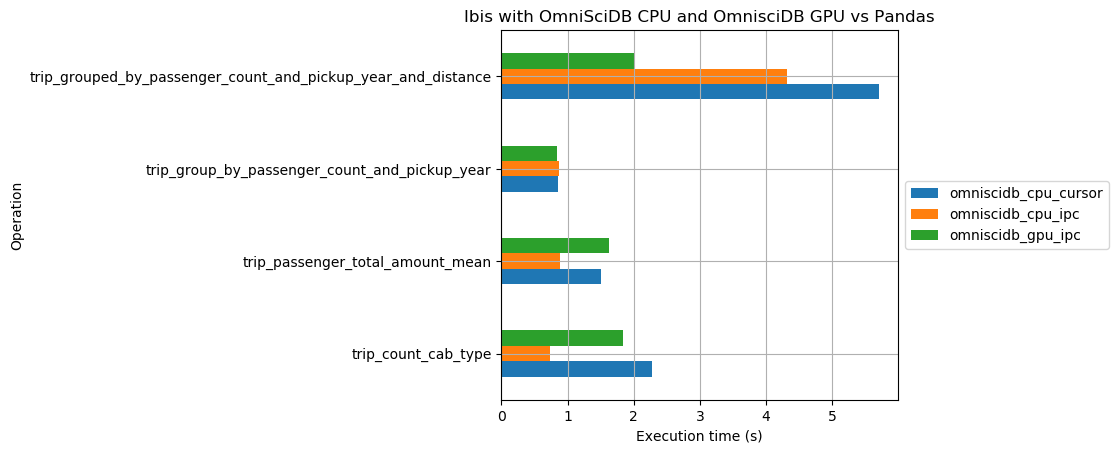
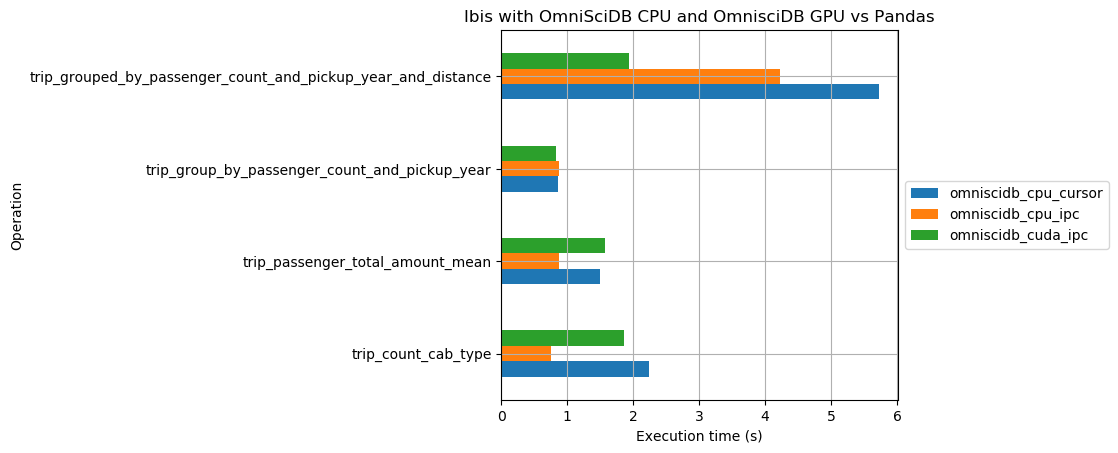
Fix small issues and update results.

diff --git a/ibis_benchmark/nyc_taxi/main.py b/ibis_benchmark/nyc_taxi/main.py
@@ -40,18 +40,21 @@ def main():
     )
 
     ns = parser.parse_args()
+    runpy_file = os.path.join(
+        os.path.dirname(os.path.abspath(__file__)), 'run.py'
+    )
 
     if ns.reset_results:
         # start a new benchmark log
         register_log(config.log_path, new_log=True)
         return
     elif ns.is_omniscidb_cpu:
-        os.system('python run.py --omniscidb --cpu --cursor')
-        os.system('python run.py --omniscidb --cpu --ipc')
+        os.system('python {} --omniscidb --cpu --cursor'.format(runpy_file))
+        os.system('python {} --omniscidb --cpu --ipc'.format(runpy_file))
     elif ns.is_omniscidb_cuda:
-        os.system('python run.py --omniscidb --gpu --ipc')
+        os.system('python {} --omniscidb --cuda --ipc'.format(runpy_file))
     elif ns.is_pandas:
-        os.system('python run.py --pandas')
+        os.system('python {} --pandas'.format(runpy_file))
 
     # generate a comparison chart
     gen_chart('nyc-taxi')

diff --git a/ibis_benchmark/chart.py b/ibis_benchmark/chart.py
@@ -22,12 +22,16 @@ def gen_chart(table_name):
     ax.set_xlabel("Execution time (s)")
     ax.set_ylabel("Operation")
 
-    df.T.plot(
-        kind='barh',
-        ax=ax,
-        title='Ibis with OmniSciDB CPU and OmnisciDB GPU vs Pandas',
-        grid=True,
-    )
+    try:
+        df.T.plot(
+            kind='barh',
+            ax=ax,
+            title='Ibis with OmniSciDB CPU and OmnisciDB GPU vs Pandas',
+            grid=True,
+        )
+    except TypeError as e:
+        print(e)
+        return
 
     box = ax.get_position()
     ax.set_position([box.x0, box.y0, box.width * 0.8, box.height])

diff --git a/ibis_benchmark/nyc_taxi/run.py b/ibis_benchmark/nyc_taxi/run.py
@@ -55,8 +55,8 @@ def main():
     )
 
     proc_target.add_argument(
-        '--gpu',
-        dest='is_gpu',
+        '--cuda',
+        dest='is_cuda',
         action='store_true',
         help='Set OmniSciDB GPU as default for the connection.',
     )
@@ -74,7 +74,7 @@ def main():
         if args.is_cpu:
             conn_name = 'cpu'
         else:
-            conn_name = 'gpu'
+            conn_name = 'cuda'
 
         if args.is_cursor:
             conn_name += '_cursor'

diff --git a/ibis_benchmark/nyc_taxi/config.py b/ibis_benchmark/nyc_taxi/config.py
@@ -15,8 +15,8 @@ conn_info = {
 conn_info['cpu_ipc'] = dict(conn_info['cpu_cursor'])
 conn_info['cpu_ipc'].update({'ipc': True})
 
-conn_info['gpu_ipc'] = dict(conn_info['cpu_cursor'])
-conn_info['gpu_ipc'].update({'port': 26274, 'ipc': True, 'gpu_device': 1})
+conn_info['cuda_ipc'] = dict(conn_info['cpu_cursor'])
+conn_info['cuda_ipc'].update({'port': 26274, 'ipc': True, 'gpu_device': 1})
 
 
 # start a new benchmark log

diff --git a/ibis_benchmark/nyc_taxi/README.md b/ibis_benchmark/nyc_taxi/README.md
@@ -136,49 +136,89 @@ export IBIS_BENCHMARK_DATA_CLEANED=/work/$(whoami)/ibis-benchmark-data-cleaned
 ./export_from_postgresql_to_csv.sh
 ```
 
-### 5. Load data into OmniSciDB CPU and GPU
+### 5. Load data into OmniSciDB database
 
-CPU
+Now, the data is ready to be loaded into OmniSciDB database.
+
+To save space in disk, we can reuse the same data directory for both OmniSciDB
+CPU and CUDA. So, to load the data into OmniSciDB data directory we can use
+just OmniSciDB CPU.
+
+So first, start the OmniSciDB CPU database:
+
+```sh
+# export env variables
+export OMNISCIDB_DATA_DIR=/work/$(whoami)/omniscidb-data
+# start omniscidb-cpu
+./scripts/start_omniscidb_cpu.sh
+```
+
+Run the `create_table.sh` file to create the initial table and `load_._data.sh`
+to load the data from the CSVs files to OmniSciDB database.
+
 ```sh
 # create table schema
-OMNISCI_PORT=6274 ./create_table.sh
+OMNISCI_PORT=6274 ./ibis_benchmark/nyc_taxi/data/omniscidb/create_table.sh
 # export ibis benchmark data cleaned
 export IBIS_BENCHMARK_DATA_CLEANED=/work/$(whoami)/ibis-benchmark-data-cleaned
 # load data
-OMNISCI_PORT=6274 ./load_data.sh
+OMNISCI_PORT=6274 ./ibis_benchmark/nyc_taxi/data/omniscidb/load_data.sh
 ```
 
-### 6. Analysis
+### 6. Run the benchmark
 
-```
-nyc-taxi-data=# SELECT relname table_name,
-nyc-taxi-data-#        lpad(to_char(reltuples, 'FM9,999,999,999'), 13) row_count
-nyc-taxi-data-# FROM pg_class
-nyc-taxi-data-# LEFT JOIN pg_namespace
-nyc-taxi-data-#     ON (pg_namespace.oid = pg_class.relnamespace)
-nyc-taxi-data-# WHERE nspname NOT IN ('pg_catalog', 'information_schema')
-nyc-taxi-data-# AND relkind = 'r'
-nyc-taxi-data-# ORDER BY reltuples DESC;
-            table_name             |   row_count   
------------------------------------+---------------
- trips                             | 1,648,177,408
- fhv_trips                         |   791,372,544
- spatial_ref_sys                   |         8,500
- central_park_weather_observations |         3,833
- nyct2010                          |         2,168
- nyct2010_taxi_zones_mapping       |         2,167
- fhv_bases                         |         1,097
- taxi_zones                        |           263
- hvfhs_licenses                    |             0
- yellow_tripdata_staging           |             0
- uber_trips_2014                   |             0
- fhv_trips_staging                 |             0
- green_tripdata_staging            |             0
- cab_types                         |             0
-(14 rows)
+First, prepare the conda environment needed by the benchmark:
+
+```sh
+# create a conda environment needed by benchmark
+conda env create -n ibis-benchmark --file ./environment.yml
+# activate the ibis-benchmark conda environment
+conda activate ibis-benchmark
+# install ibis-benchmark
+make develop
 ```
 
-The expressions used by this benchmark are listed into expr_list at `exprs.py`.
+Start a new benchmark:
+
+```sh
+# reset previous results
+python ibis_benchmark/main.py --reset-result 
+```
+
+In a new terminal, start OmniSciDB CPU:
+
+```sh
+# export env variables
+export OMNISCIDB_DATA_DIR=/work/$(whoami)/omniscidb-data
+# start omniscidb-cpu
+./scripts/start_omniscidb_cpu.sh
+```
+
+On `ibis-benchmark` conda environment, run the benchmark for OmniSciDB CPU:
+
+```sh
+python ibis_benchmark/nyc_taxi/main.py --omniscidb-cpu
+```
+
+Now, the first results are ready on `./docs/static/benchmark-nyc-txi.json`.
+
+The next step is run the benchmark for OmniSciDB CUDA. First, ensure that
+the OmniSciDB CPU is not running. So, in a new terminal, start OmniSciDB CUDA:
+
+```sh
+# export env variables
+export OMNISCIDB_DATA_DIR=/work/$(whoami)/omniscidb-data
+# start omniscidb-cpu
+./scripts/start_omniscidb_cuda.sh
+```
+
+On `ibis-benchmark` conda environment, run the benchmark for OmniSciDB CUDA:
+
+```sh
+python ibis_benchmark/nyc_taxi/main.py --omniscidb-cuda
+```
+
+All expressions used by this benchmark are listed into expr_list at `exprs.py`.
 
 ## Schema
 

diff --git a/README.md b/README.md
@@ -26,26 +26,26 @@ cp $CONDA_PREFIX/bin/omnisci_initdb initdb
 # deactivate the environment
 source deactivate
 # export env variables
-export OMNISCIDB_CPU_DATA_DIR=/work/$(whoami)/omniscidb-cpu-data
+export OMNISCIDB_DATA_DIR=/work/$(whoami)/omniscidb-data
 # start omniscidb-cpu
 cd scripts && ./start_omniscidb_cpu.sh
 ```
 
-For installing and running OmniSciDB-GPU, in another terminal, run:
+For installing and running OmniSciDB-CUDA, in another terminal, run:
 
 ```sh
 # create a conda environment and install omniscidb-cuda
 conda create -n omniscidb-cuda -c quansight omniscidb-cuda
 # export env variables
-export OMNISCIDB_CPU_DATA_DIR=/work/$(whoami)/omniscidb-cpu-data
-# start omniscidb-gpu
+export OMNISCIDB_DATA_DIR=/work/$(whoami)/omniscidb-data
+# start omniscidb-cuda
 cd scripts && ./start_omniscidb_cuda.sh
 ```
 
 It is not possible to use both OmniSciDB CPU and CUDA at the same time 
 using the same data directory. So for this reason, the benchmark should
 be run separated for each server.
- 
+
 ### Ibis-benchmark
 
 To prepare the conda environment, run:
